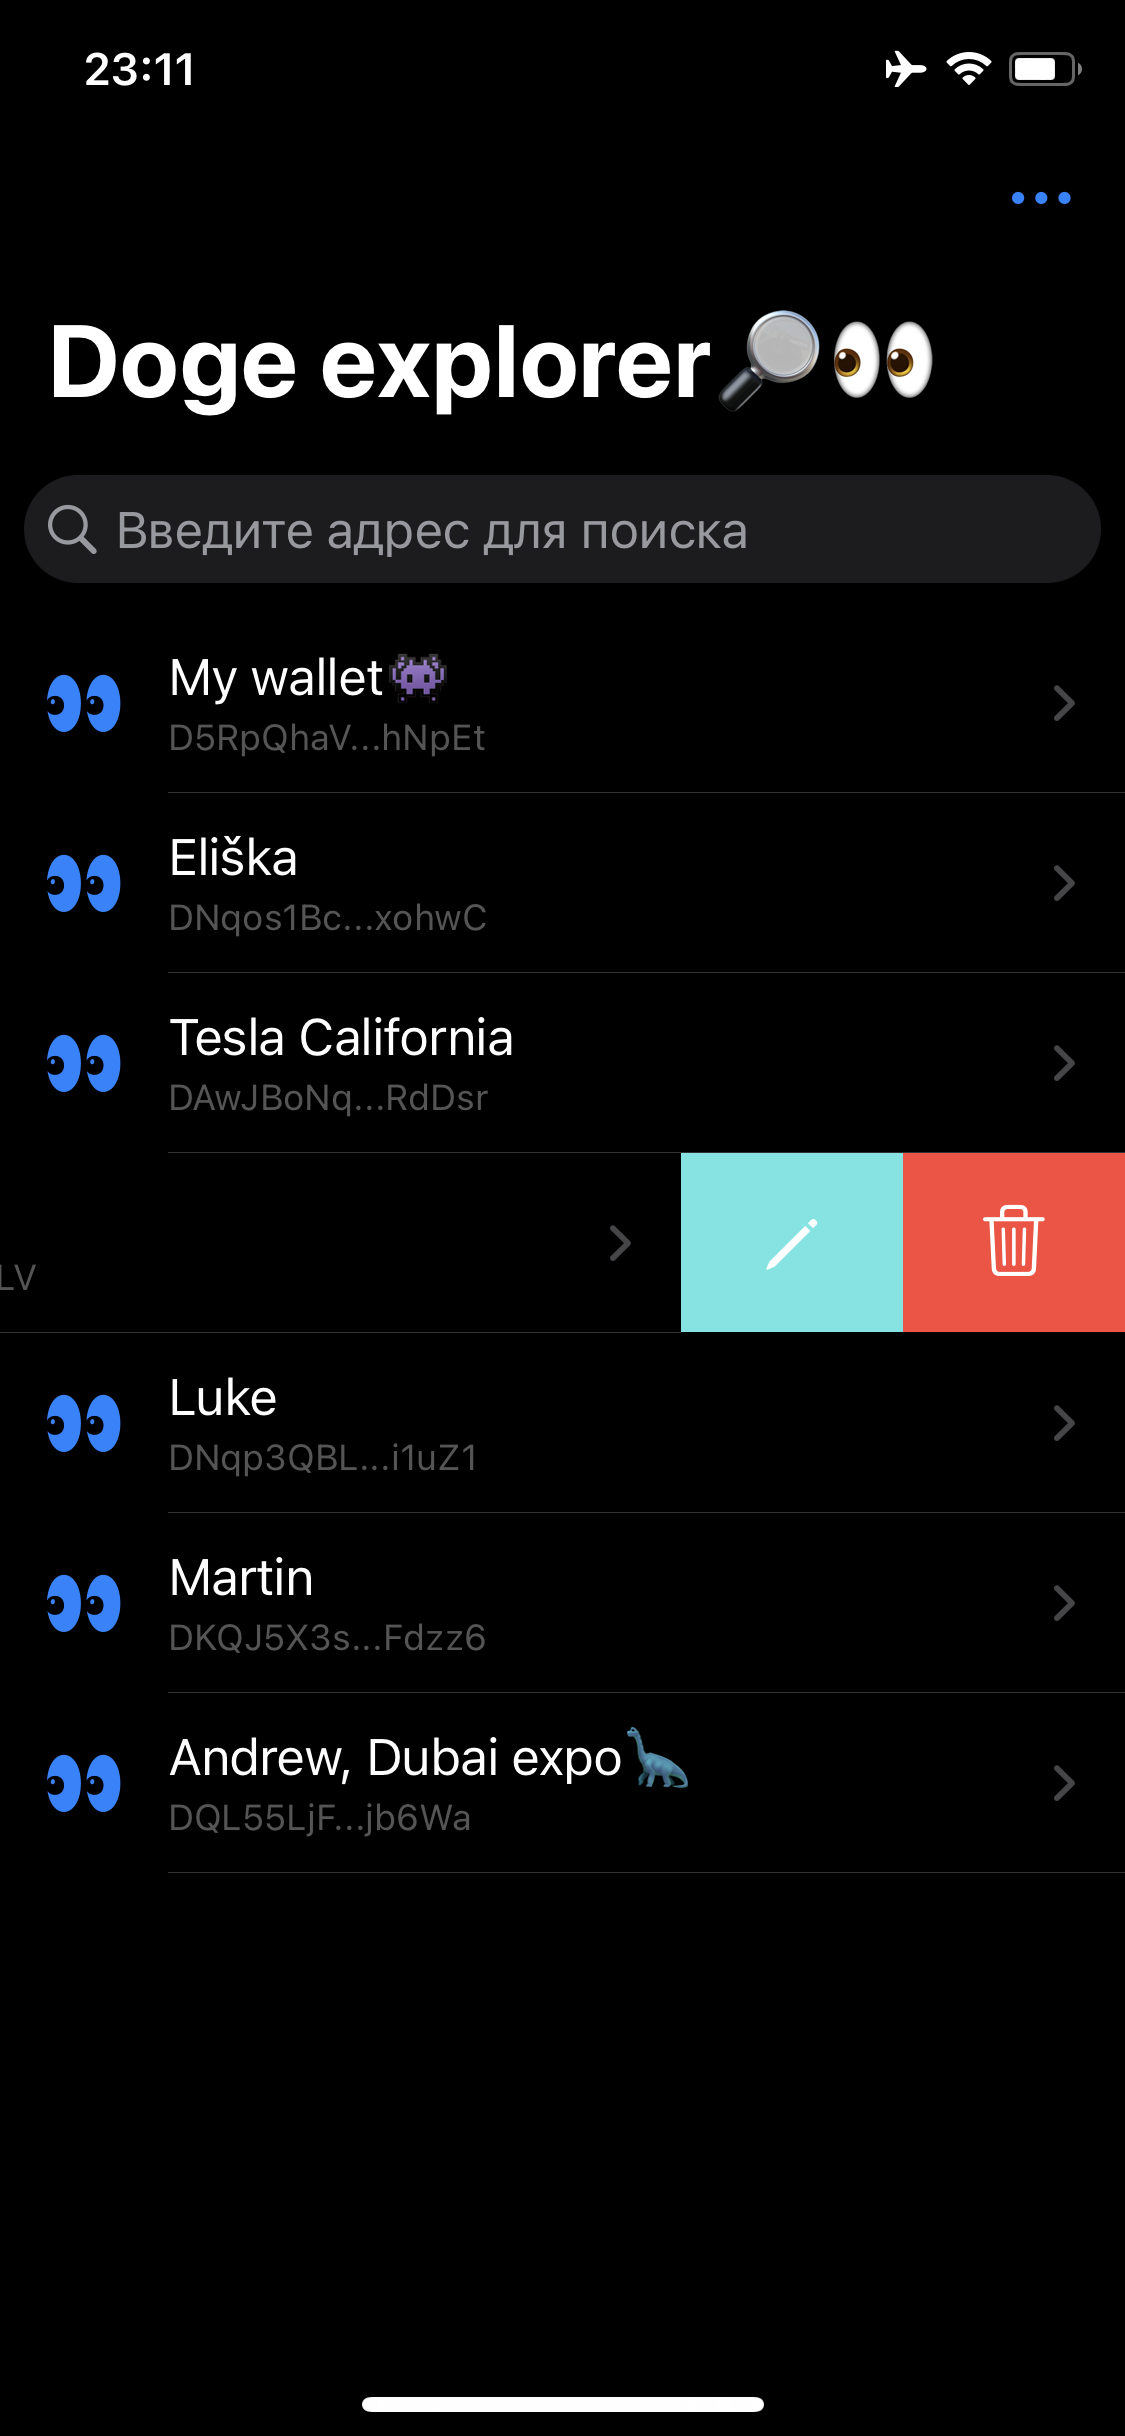
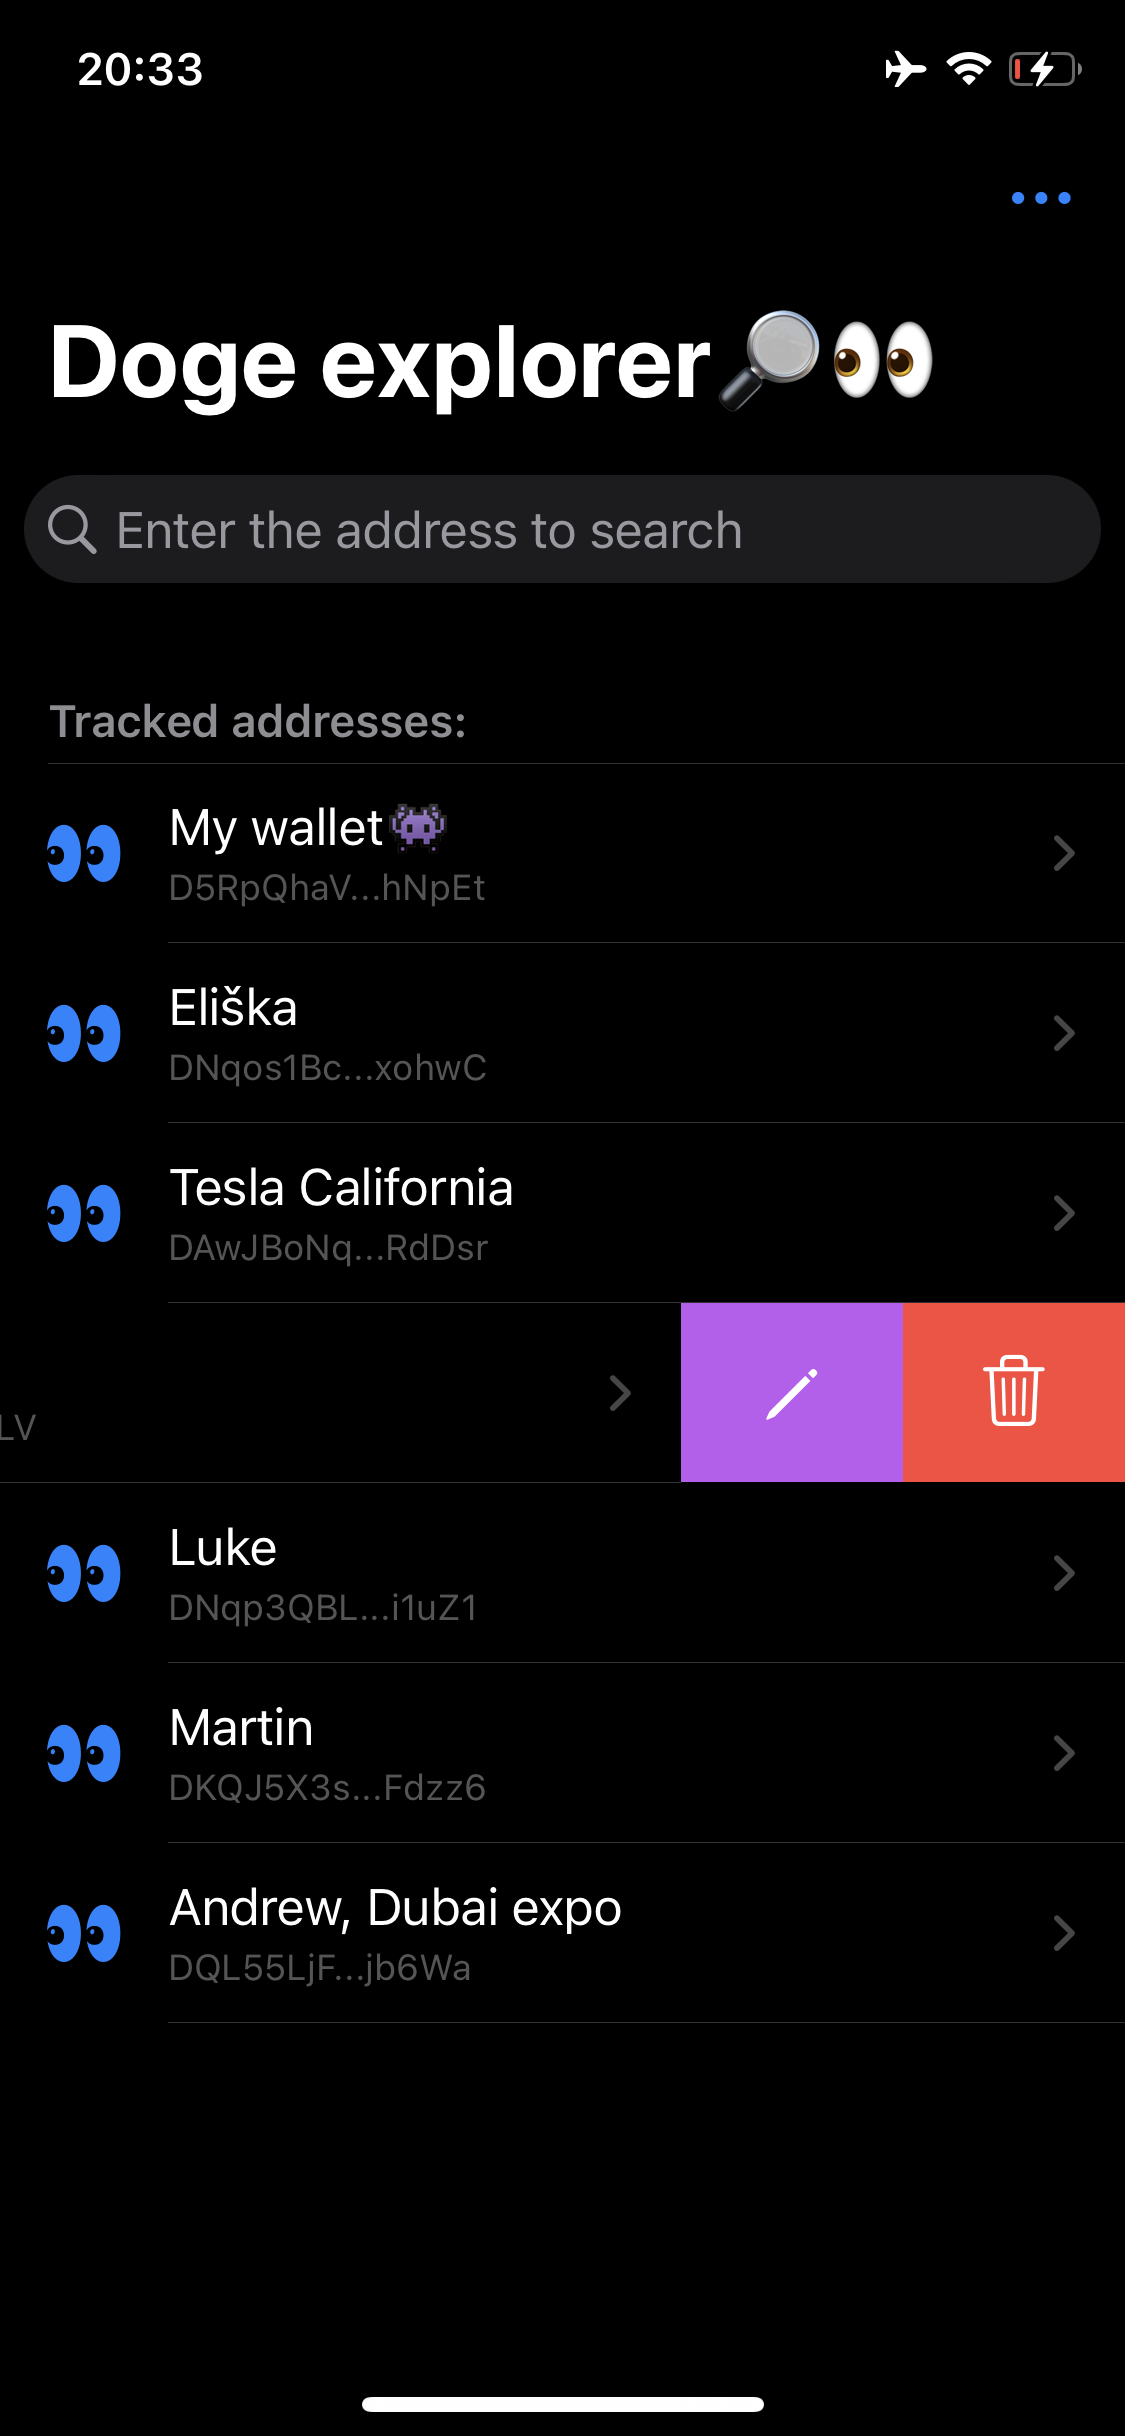
Update screenshots

diff --git a/DogeExplorerApp_iOS/Modules/MainModule/MainViewController.swift b/DogeExplorerApp_iOS/Modules/MainModule/MainViewController.swift
@@ -220,11 +220,11 @@ extension MainViewController: UITableViewDelegate {
             completion(true)
         }
         renameAction.image = UIImage(systemName: "pencil")
-        renameAction.backgroundColor = .systemMint
+        renameAction.backgroundColor = .systemPurple
         return UISwipeActionsConfiguration(actions: [deleteAction, renameAction])
     }
     
-//    func tableView(_ tableView: UITableView, titleForHeaderInSection section: Int) -> String? {
-//        presenter.getTitleFoHeader(in: section)
-//    }
+    func tableView(_ tableView: UITableView, titleForHeaderInSection section: Int) -> String? {
+        presenter.getTitleFoHeader(in: section)
+    }
 }
